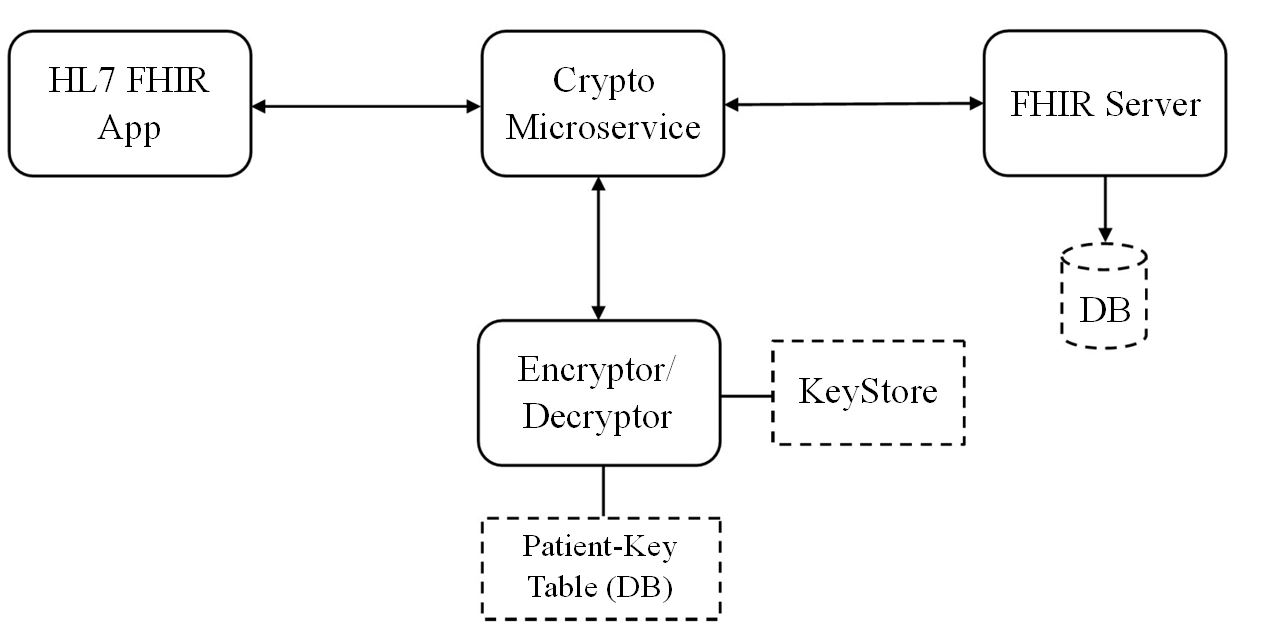
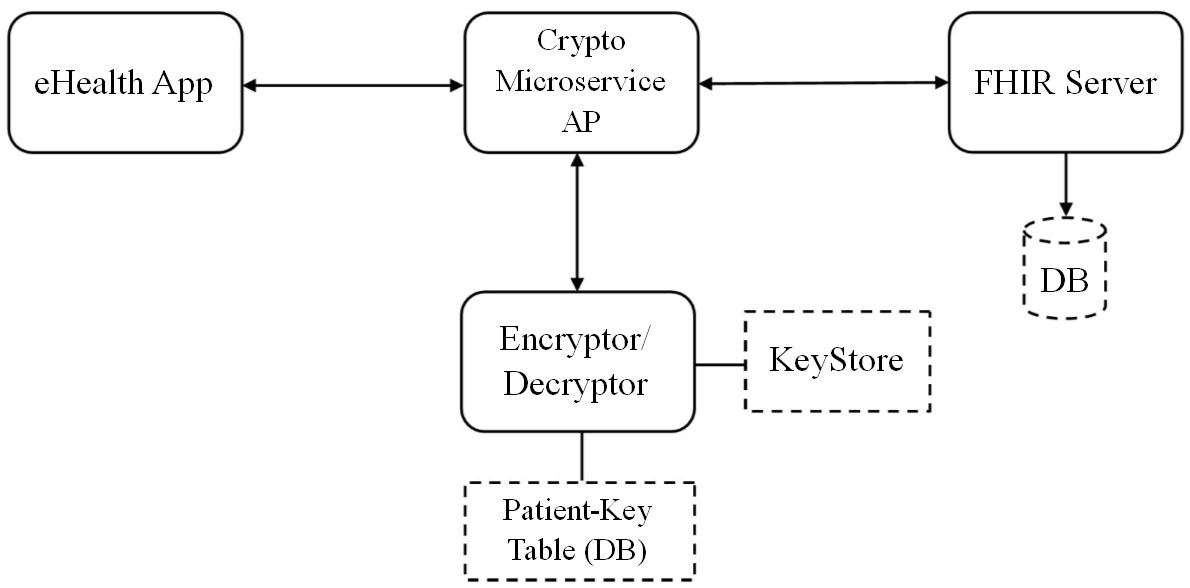
MD Edits

Changed region(s): [[0.0, 0.0, 1.0, 1.0], [0.6218, 0.5204, 0.7773, 0.551]]

diff --git a/README.md b/README.md
@@ -15,14 +15,14 @@ The microservice also enables to change the encryption key for the patient (see 
 The most basic architecture described in <a href="https://www.hl7.org/fhir/" target="_blank">HL7 FHIR Specification</a> 
 only requires 2 components - eHealth application using HL7 FHIR standard and FHIR Server, which exposes FHIR RESTful API interface.
 
-<img src="img/basicArchitecture.JPG" alt="Basic Architecture"  height="160">
+<img src="img/basicArchitecture.JPG" alt="Basic Architecture">
 
 ## HL7 FHIR Resource Encryptor/Decryptor Architecture
 The main goal of this solution is, that there are no changes needed in the eHealth app (except for changing the access point to **Crypto Microservice**).
 
 In this architecture, two additional components are added to the default setup: **Crypto Microservice Access Point** and **Encryptor/Decryptor Microservice**.
 
-<img src="img/appArchitectureNew.jpg" alt="App Architecture"  height="300">
+<img src="img/appArchitectureNew.jpg" alt="App Architecture">
 
 - **Crypto Microservice AP** serves as an access point of the entire solution and exposes (a subset of) standardized HL7 FHIR API interface. Its job is to route reuqests between the **eHealth app**, **Encryptor/Decryptor** and **FHIR Server**.
 
